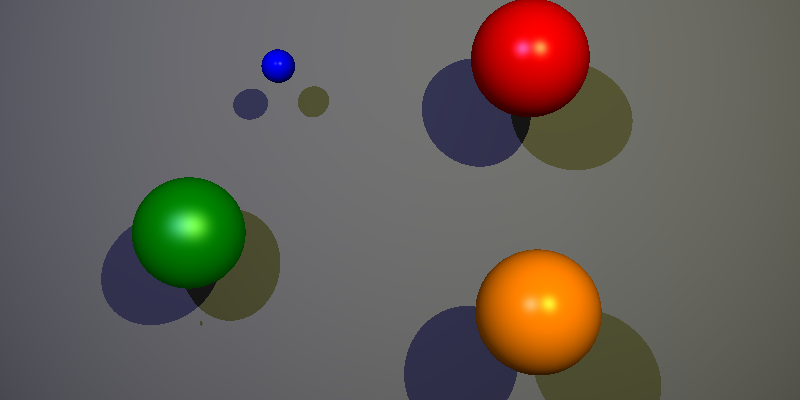
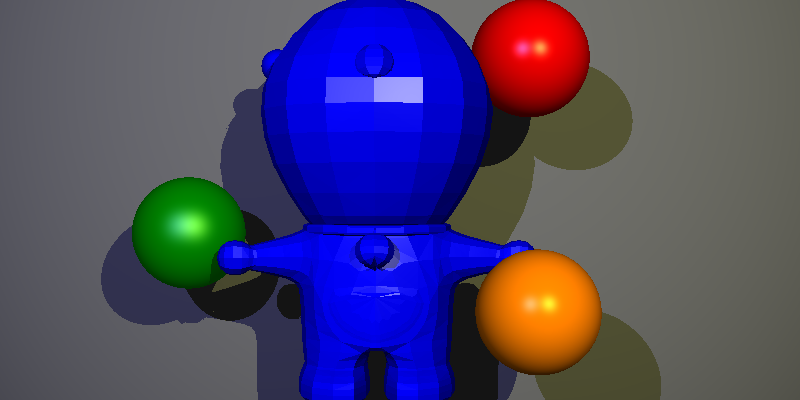
ajout image + modif mesh

diff --git a/raytracerframework_cpp/mesh.cpp b/raytracerframework_cpp/mesh.cpp
@@ -8,7 +8,7 @@
 Mesh::Mesh(float s, Point pos, std::string pathname) : scale(s), position(pos), filename(pathname)
 {
 	GLMmodel* model = glmReadOBJ((char*)filename.c_str());
-	std::cout << "Model : " << model->pathname << std::endl << "mtl: " << model->mtllibname<<std::endl<<"vertices : "<< model->numvertices<<std::endl<<"Triangles : "<<model->numtriangles<<"materials : "<<model->nummaterials<<std::endl<<"position: "<<model->position[0]<<" , "<< model->position[1]<<" , "<< model->position[2]<<std::endl;
+	std::cout << "Model : " << model->pathname << std::endl << "mtl: " << model->pathname<<std::endl<<"vertices : "<< model->numvertices<<std::endl<<"Triangles : "<<model->numtriangles<<"materials : "<<model->nummaterials<<std::endl<<"position: "<<model->position[0]<<" , "<< model->position[1]<<" , "<< model->position[2]<<std::endl;
 	glmScale(model, scale);
 
 	// convert model into triangles for scene
@@ -36,18 +36,21 @@ Mesh::Mesh(float s, Point pos, std::string pathname) : scale(s), position(pos), 
 			// if there is any texture or defined color for the face, get it , 
 			// otherwise use the one from the yaml file
 
-			std::string mtlGroupName = std::string(group->name);
-			int nMaterial = glmFindMaterial(model, (char*)mtlGroupName.c_str());
-			if (nMaterial)
+			if (model->nummaterials > 0)
 			{
-				GLMmaterial m = model->materials[nMaterial];
-				Material *material = new Material();
-				material->ka = m.ambient[0];
-				material->kd = m.diffuse[0];
-				material->ks = m.specular[0];
-				material->color = Color(m.diffuse[0], m.diffuse[1], m.diffuse[2]);
-				material->n = m.shininess;
-				tr->material = material;
+				std::string mtlGroupName = std::string(group->name);
+				int nMaterial = glmFindMaterial(model, (char*)mtlGroupName.c_str());
+				if (nMaterial)
+				{
+					GLMmaterial m = model->materials[nMaterial];
+					Material *material = new Material();
+					material->ka = m.ambient[0];
+					material->kd = m.diffuse[0];
+					material->ks = m.specular[0];
+					material->color = Color(m.diffuse[0], m.diffuse[1], m.diffuse[2]);
+					material->n = m.shininess;
+					tr->material = material;
+				}
 			}
 			triangles.push_back(tr);
 		}

diff --git a/raytracerframework_cpp/triangle.cpp b/raytracerframework_cpp/triangle.cpp
@@ -1,3 +1,5 @@
+#include <exception>
+#include <iostream>
 #include "triangle.h"
 #include "material.h"
 
@@ -43,9 +45,9 @@ void Triangle::changeBase(const Eigen::Matrix4d & changeOfBaseMatrix)
 
 Color Triangle::getColor(Point p)
 {
-	if (material == nullptr)
-		return Color(0.4, 0.4, 0.7);
-	return material->color;
+		if (material == nullptr)
+			return Color(0.4, 0.4, 0.7);
+		return material->color;
 }
 
 Triangle::~Triangle()

diff --git a/raytracerframework_cpp/raytracer.cpp b/raytracerframework_cpp/raytracer.cpp
@@ -161,7 +161,7 @@ Object* Raytracer::parseObject(const YAML::Node& node)
 		for (std::vector<Triangle*>::iterator it = mesh->triangles.begin(); it != mesh->triangles.end(); ++it)
 		{
 			//if ((*it)->material->color == NULL)
-				//(*it)->material = parseMaterial(node["material"]);
+			(*it)->material = parseMaterial(node["material"]);
 			scene->addObject((*it));
 		}
 		returnObject = mesh;
